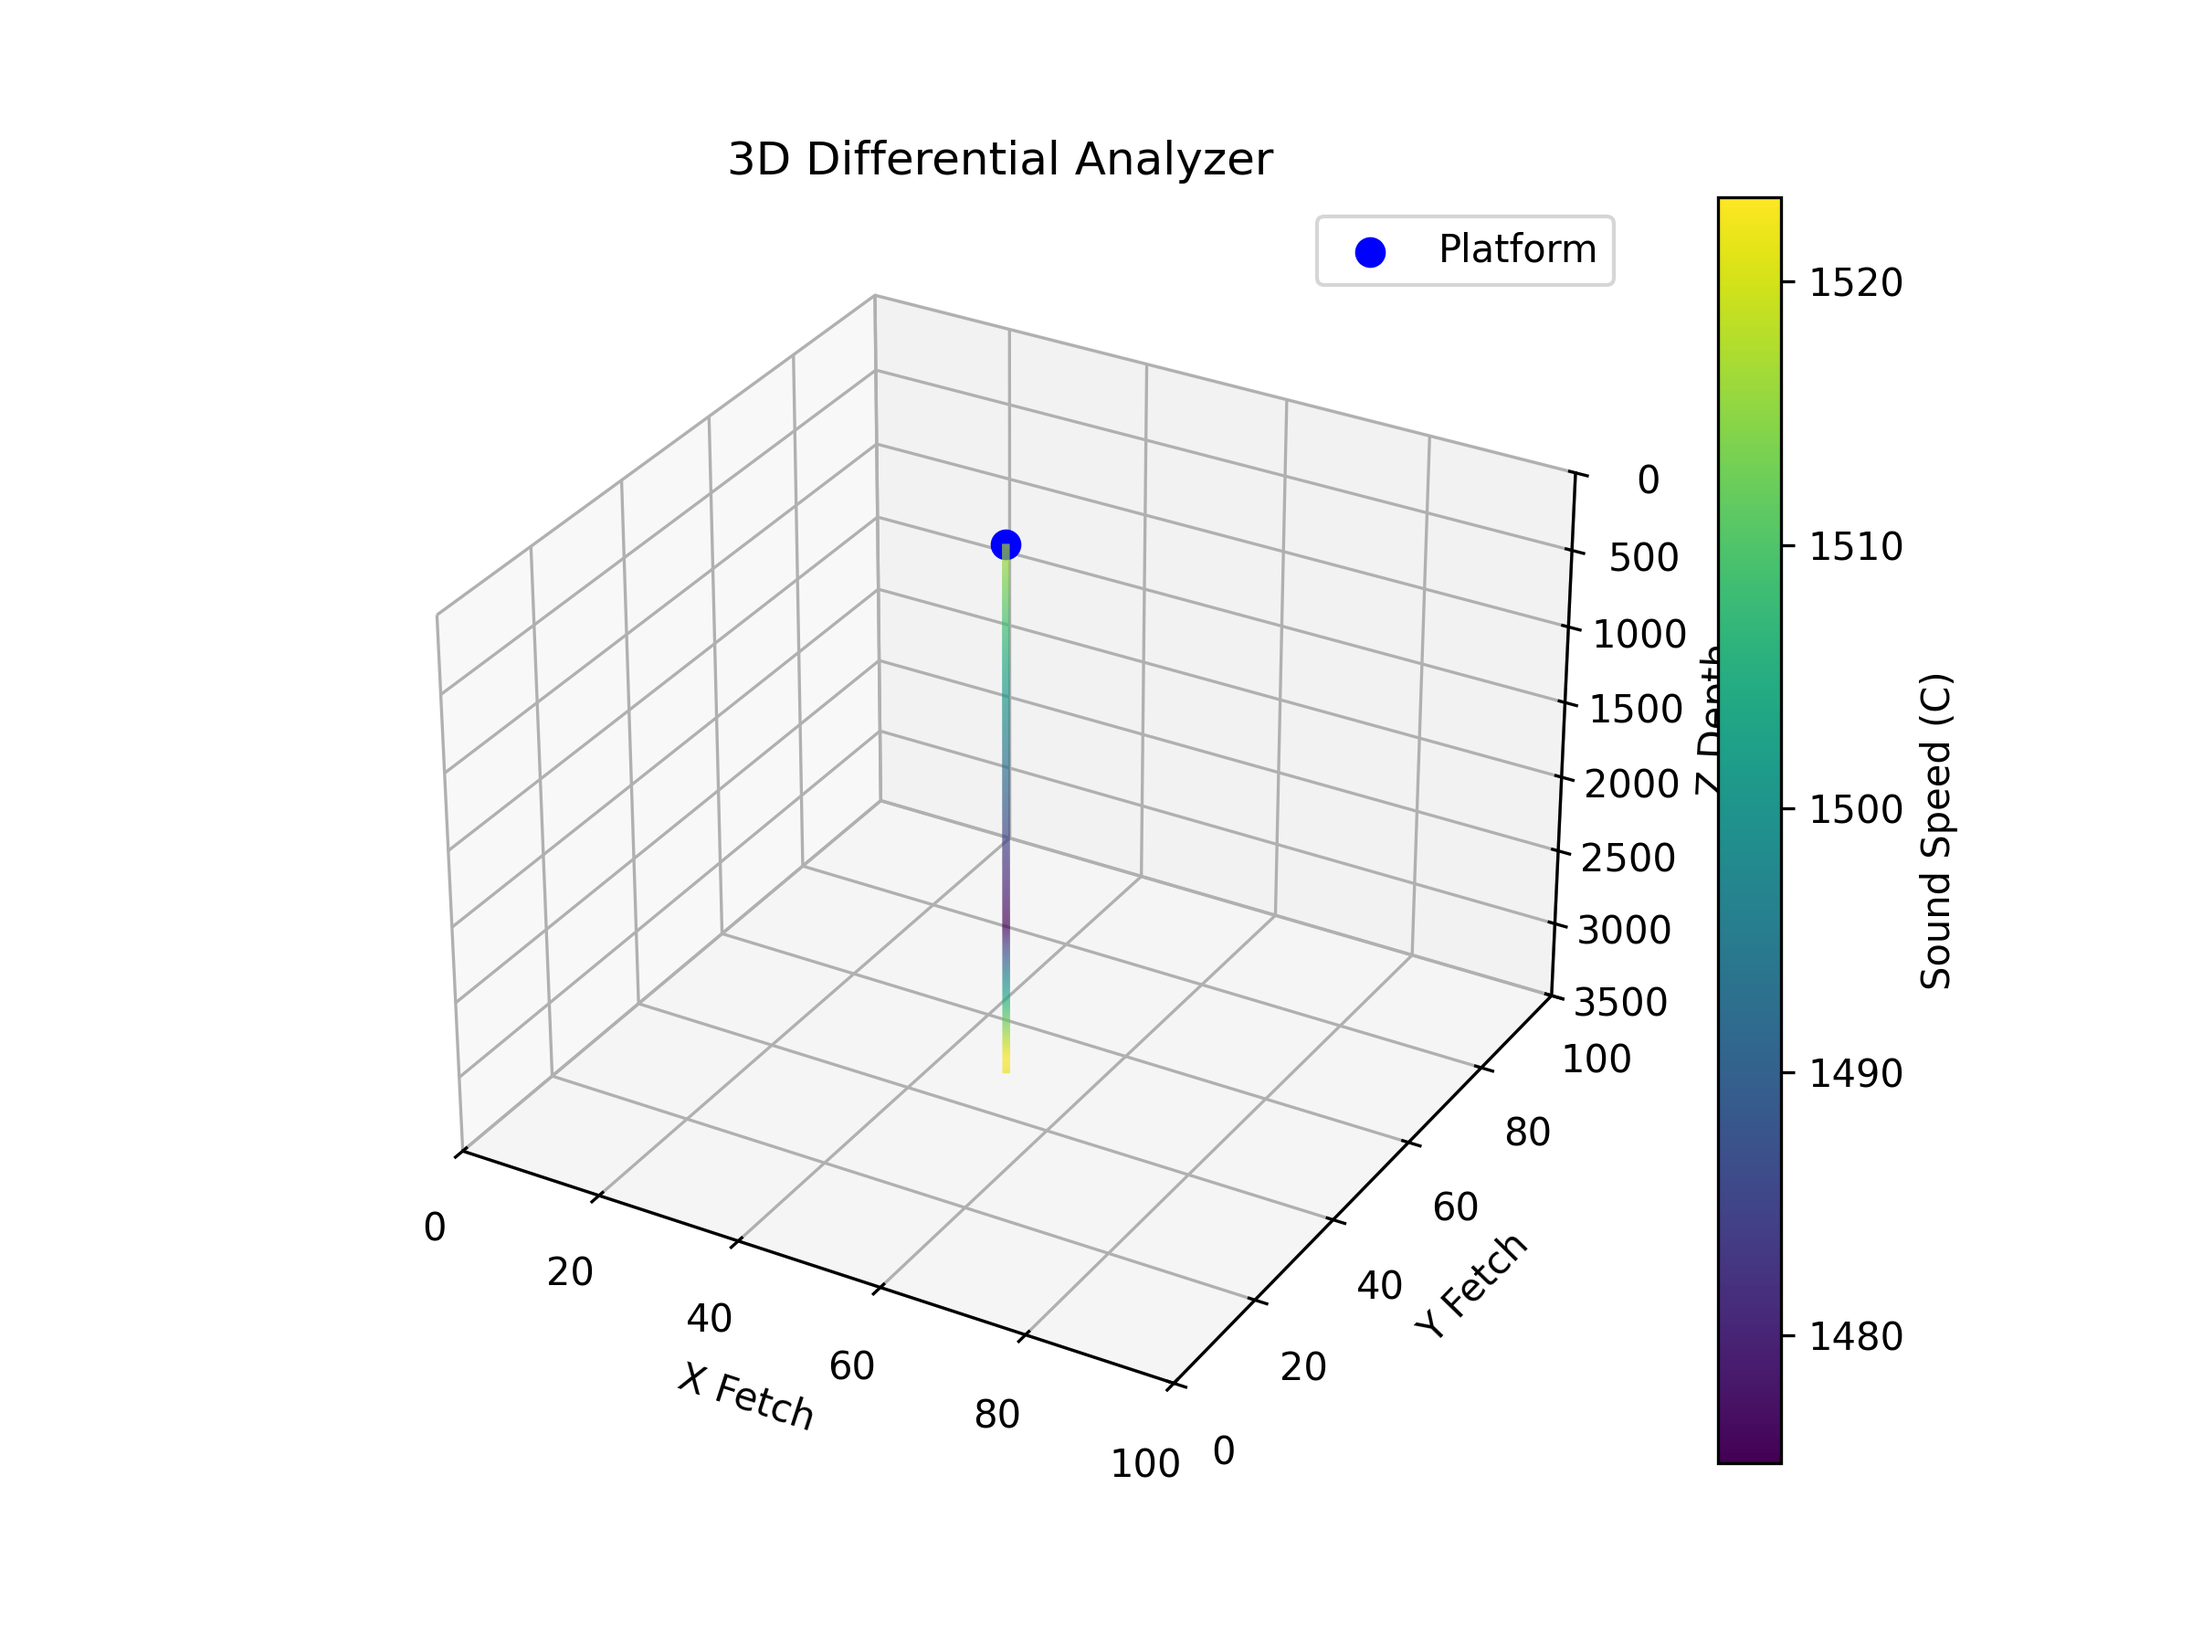
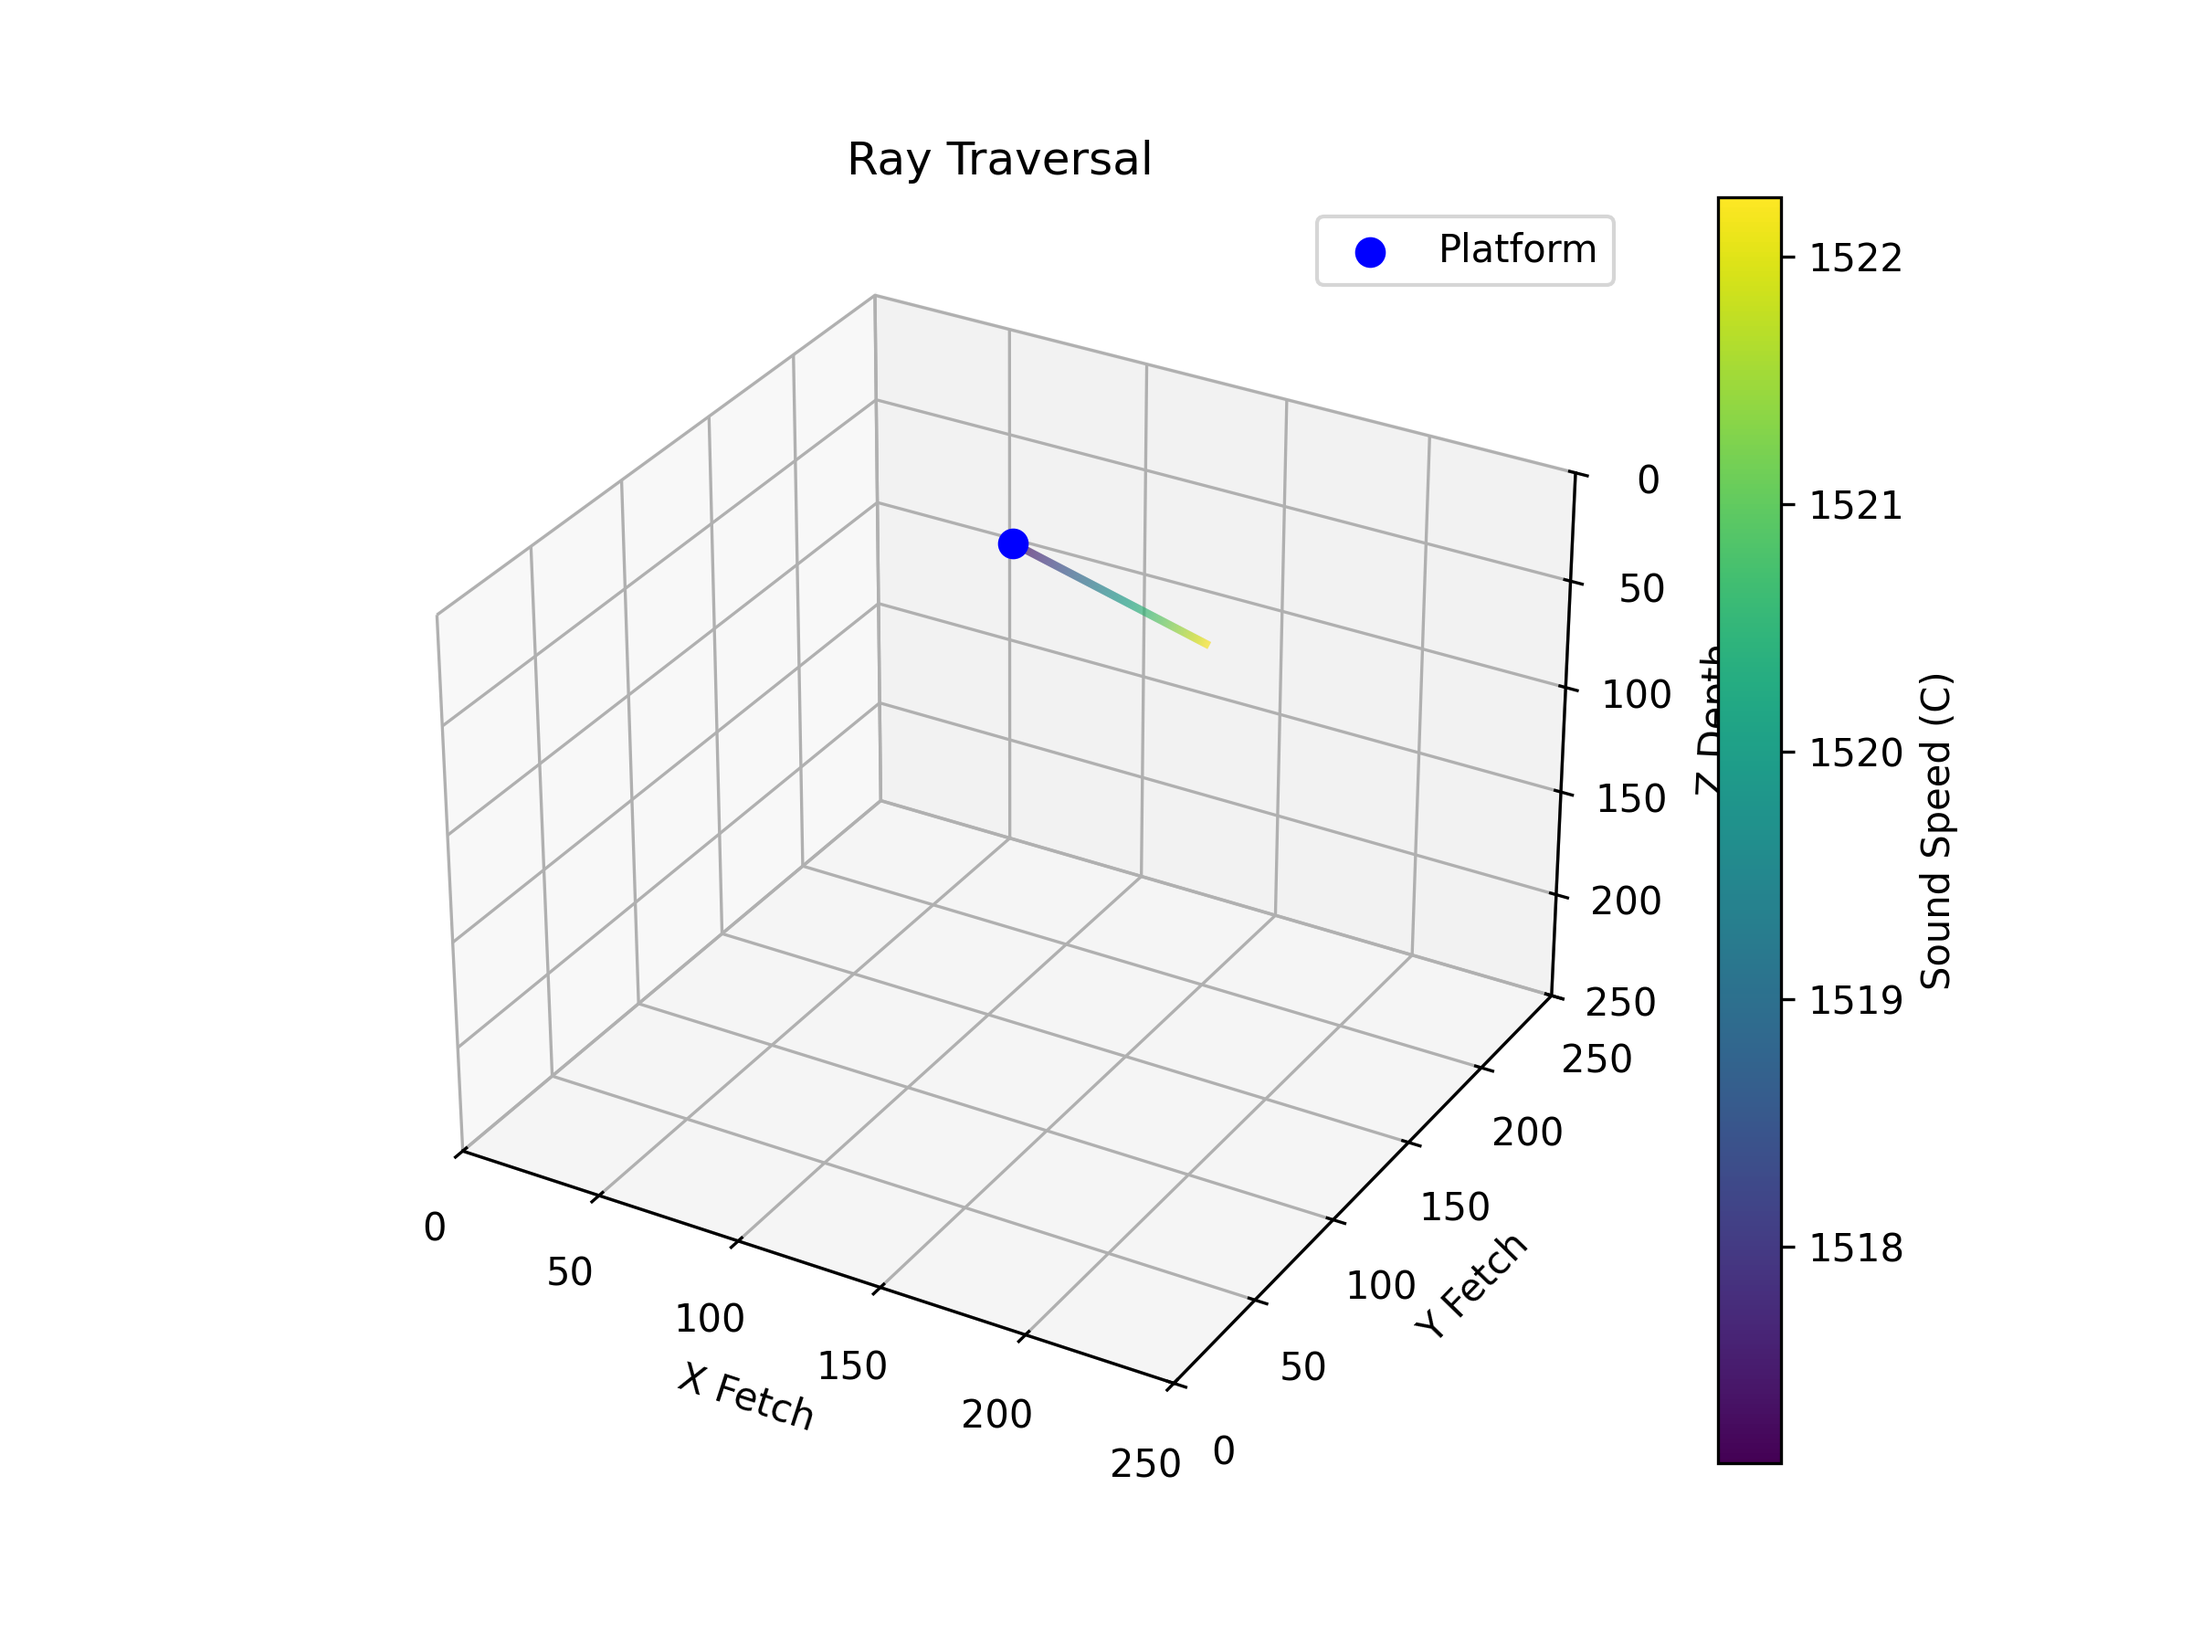
Removed 3D differential analyzer algorithm function, went with trilinear interpolation instead. Modified utils and ray-traversal code. Allows for much higher definition raytrace overall.

diff --git a/src/utils.py b/src/utils.py
@@ -64,46 +64,64 @@ def sound_speed_field(grid):
     c += 0.05 * np.sin(2 * np.pi * x / x.max()) * np.sin(2 * np.pi * y / y.max())  # Small sinusoidal perturbation
     return c # Return sound speed values for each voxel in "grid"
 
-# 3D Digital Differential Analyzer
-# At each step, the algorithm checks which of the three axes the ray will cross next (which voxel boundary is closest along the ray's path), then increments the index along that axis by one.
-def dda(C, init_pos, ray_dir, max_steps):
-    shape = C.shape # Get shape of field
-    idx = np.array(init_pos, dtype=float) # Initialize ray index from starting position
-    values = [] # Create an empty array to return values of C for ray traversal
-    path = [] # Initialize an empty array for ray path positions
+# Trilinear interpolation to get pressure value based on fractional distance of ray within voxel and value at each corner point of voxel
+def trilinear_interp(C, pos):
+    x, y, z = pos # Break position on 3D grid into constituent parts
+    x0, y0, z0 = np.floor([x, y, z]).astype(int) # Find lower corner of voxel.
+    x1, y1, z1 = x0 + 1, y0 + 1, z0 + 1 # Calculate upper corner of voxel.
 
-    # Calculate step and tMax/tDelta for each axis
-    step = np.sign(ray_dir).astype(int) # Increment, decrement, or do nothing along each axis as the ray moves
-    tMax = np.zeros(3) # Initialize array that holds distance to next voxel boundary (variable)
-    tDelta = np.zeros(3) # Initialize array that will hold distance between subsequent voxel boundaries (constant)
-    grid_spacing = [1, 1, 1]  # Grid is uniform and each voxel is 1 unit in size
+    # Prevent attempts to access elements outside valid range of the array when point is near edge
+    x0 = np.clip(x0, 0, C.shape[0] - 1)
+    x1 = np.clip(x1, 0, C.shape[0] - 1)
+    y0 = np.clip(y0, 0, C.shape[1] - 1)
+    y1 = np.clip(y1, 0, C.shape[1] - 1)
+    z0 = np.clip(z0, 0, C.shape[2] - 1)
+    z1 = np.clip(z1, 0, C.shape[2] - 1)
 
-    # For each axis...
-    for i in range(3):
-        if ray_dir[i] != 0: # If moving along axis...
-            if step[i] > 0: # And if stepping in positive direction...
-                next_voxel_boundary = np.floor(idx[i] + 1) # Calculate next voxel boundary.
-            else: # Else if stepping in negative direction...
-                next_voxel_boundary = np.ceil(idx[i] - 1) # Calculate next voxel boundary
-            tMax[i] = (next_voxel_boundary - idx[i]) / ray_dir[i]
-            # Distance ray must travel to reach boundary. 
-            tDelta[i] = grid_spacing[i] / abs(ray_dir[i])
-            # Distance ray must travel between subsequent boundaries.
-        else: # If the ray is not moving along axis...
-            # Set tMax and tDelta to infinity so ray will not step this along this axis
-            tMax[i] = np.inf
-            tDelta[i] = np.inf
+    # Fractional distance from ray position to voxel bottom corner
+    xd = x - x0 
+    yd = y - y0
+    zd = z - z0
 
-    # Loop up to max_steps limit to prevent infinite loops...
-    for _ in range(max_steps):
-        xi, yi, zi = idx.astype(int) # Break ray position index into x, y, and z index components.
-        if not (0 <= xi < shape[0] and 0 <= yi < shape[1] and 0 <= zi < shape[2]): # If index exceeds boundaries of grid...
+    # Get pressure value at each corner of voxel cube
+    c000 = C[x0, y0, z0]
+    c001 = C[x0, y0, z1] 
+    c010 = C[x0, y1, z0]
+    c011 = C[x0, y1, z1]
+    c100 = C[x1, y0, z0]
+    c101 = C[x1, y0, z1]
+    c110 = C[x1, y1, z0]
+    c111 = C[x1, y1, z1]
+
+    # Use weighted average to interpolate between pressure values at x-corners
+    c00 = c000 * (1 - xd) + c100 * xd # Multiple each pressure value by it's weight based on fractional distance within voxel and add weighted values.
+    c01 = c001 * (1 - xd) + c101 * xd
+    c10 = c010 * (1 - xd) + c110 * xd
+    c11 = c011 * (1 - xd) + c111 * xd
+
+    # Interpolate x-pairings along y-axis
+    c0 = c00 * (1 - yd) + c10 * yd
+    c1 = c01 * (1 - yd) + c11 * yd
+
+    # Interpolate xy-pairings along z-axis
+    c = c0 * (1 - zd) + c1 * zd
+
+    return c # Return interpolated sound speed value
+
+# Traverse grid, getting pressure value for each step 
+def traverse_grid(c, init_pos, ray_dir, step_size, max_steps):
+    shape = c.shape # Get shape of sound speed field (grid)
+    num_steps = int(max_steps / step_size) # Calculate maximum number of steps based on size
+    idx = np.array(init_pos, dtype=float) # Convert initial position (x, y, z) list into array of floats
+    values = [] # Initialize array where pressure values will be stored
+    path = [] # Initialize array where ray path points will be stored for graphing
+
+    # Loop until ray is at maximum number of steps (to avoid infinite loops)
+    for _ in range(num_steps):
+        xi, yi, zi = idx # Break idx array into constituent x, y, and z parts
+        if not (0 <= xi < shape[0] and 0 <= yi < shape[1] and 0 <= zi < shape[2]): # If ray steps out of bounds...
             break # Break loop
-        values.append(C[xi, yi, zi]) # Get value at index.
-        path.append([xi, yi, zi]) # Get index position of ray.
-        # Step to next voxel
-        axis = np.argmin(tMax) # Find axis along which next boundary will be crossed.
-        idx[axis] += step[axis] # Move ray along chosen axis.
-        tMax[axis] += tDelta[axis] # Update tMax for chosen axis.
-
+        values.append(trilinear_interp(c, idx)) # Apply trilinear interpolation to get value based on fractional distance of ray within voxel
+        path.append(idx.copy()) # Append current ray position to path array
+        idx += ray_dir * step_size  # Move by a fraction of a voxel
     return values, np.array(path)

diff --git a/tests/ray-traversal.py b/tests/ray-traversal.py
@@ -1,0 +1,70 @@
+import sys
+import os
+sys.path.append(os.path.abspath(os.path.join(os.path.dirname(__file__), '..', 'src')))
+import utils
+import numpy as np
+import matplotlib as mpl
+import matplotlib.pyplot as plt
+import matplotlib.cm as cm
+from mpl_toolkits.mplot3d.art3d import Line3DCollection
+from mpl_toolkits.mplot3d import Axes3D
+
+# User Settings
+platform = np.array([0.5, 0.5, 0.0]) # Platform position as percentage of grid
+depth = 250 # Depth to seafloor
+fetch = 250 # Length of ocean fetch (m/sqr)
+ray_dir = np.array([0.0, 0.5, 0.5]) # Ray direction vector
+step_size = 0.1  # Ray step
+max_steps = 10000 # Max amount of steps until ray breaks (to avoid infinite loops)
+
+# Generate grid
+grid = utils.get_grid(fetch, depth)
+
+# Get platform position on grid
+init_pos = utils.platform_pos(platform, grid)
+
+# Get sound speed field
+C = utils.sound_speed_field(grid)
+
+# Get pressure value and position for each step of ray
+values, path = utils.traverse_grid(C, init_pos, ray_dir, step_size, max_steps)
+
+# Normalize C values for colormap
+C_ray = np.array(values) # Convert list to numpy array
+norm = (C_ray - C_ray.min()) / (C_ray.max() - C_ray.min()) # Normalize C values
+colors = cm.viridis(norm) # Apply viridis gradient
+
+# Generate figure
+fig = plt.figure(figsize=(8, 6)) # Create matplotlib figure object
+ax = fig.add_subplot(111, projection='3d') # 3D graph
+
+# Plot as colored line segments
+segments = np.array([path[:-1], path[1:]]).transpose(1, 0, 2) # Create line segments from consecutive points along ray path
+lc = Line3DCollection(segments, colors=colors[:-1], linewidth=2) # Create 3D Line Collection where each segment is colored according to corresponding C value
+ax.add_collection3d(lc) # Add to plot
+
+# Plot the starting point
+ax.scatter([init_pos[0]], [init_pos[1]], [init_pos[2]], color='blue', s=50, label='Platform')
+
+# Label axes, set title, and add legend
+ax.set_xlabel('X Fetch')
+ax.set_ylabel('Y Fetch')
+ax.set_zlabel('Z Depth')
+ax.set_title('Ray Traversal')
+ax.legend()
+
+# Set limits to predefined section of ocean
+ax.set_xlim(0, fetch)
+ax.set_ylim(0, fetch)
+ax.set_zlim(0, depth)
+
+# Invert z-axis to reflect positive depth downwards
+ax.invert_zaxis()
+
+# Add colorbar
+mappable = cm.ScalarMappable(cmap='viridis')
+mappable.set_array(C_ray)
+fig.colorbar(mappable, ax=ax, label='Sound Speed (C)')
+
+plt.savefig('/Users/marcel/Desktop/sonar-sim/docs/figures/3d-differential-analyzer.png', dpi=300)
+plt.show()
